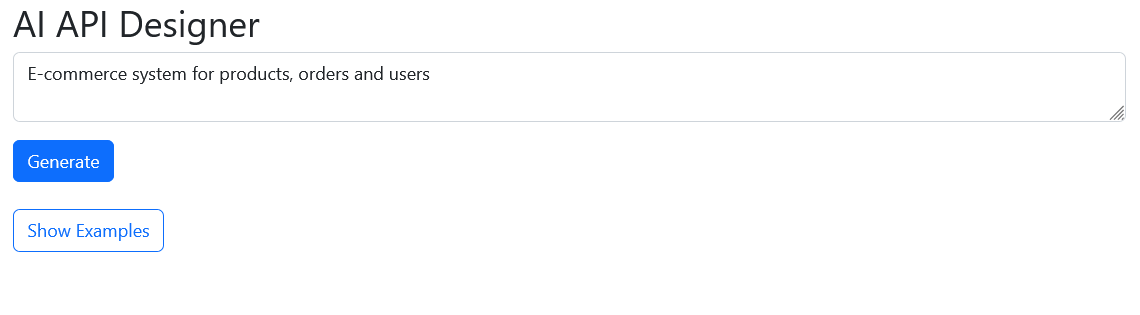
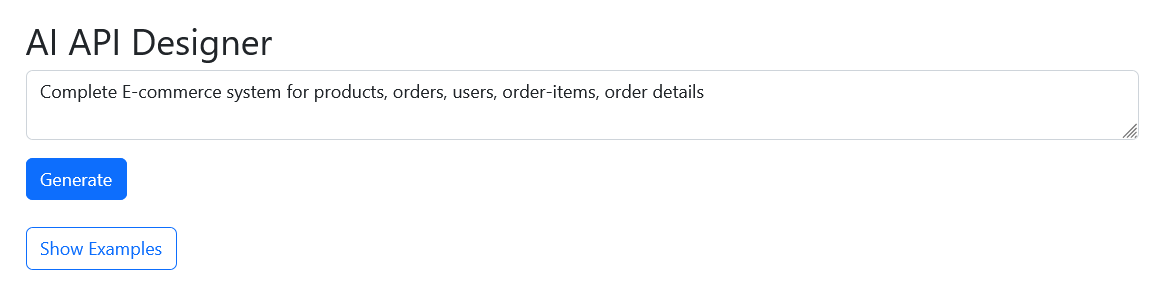
Change Code

diff --git a/api.php b/api.php
@@ -50,8 +50,8 @@
 
   Rules:
   - Keep it simple and realistic
-  - Max 10 API endpoints
-  - Max 10 tables
+  - Max 5 API endpoints
+  - Max 5 tables
   - Do not include explanations outside JSON
   - Use clear naming';
 
@@ -72,8 +72,8 @@
             "content" => $userPrompt
         ]
     ],
-    "max_tokens" => 3000,
-    "temperature" => 0.1
+    "max_tokens" => 1000,
+    "temperature" => 0.2
     
   ];
 

diff --git a/README.md b/README.md
@@ -151,15 +151,15 @@ http://localhost:1234
 
 You can test with:
 
-1. E-commerce system for products, orders and users
-2. User management system with roles and permissions
-3. System for managing events, tickets and attendees
-4. Hospital system for patients, doctors and appointments
-5. System for storing AI prompts and responses history
-6. Smart energy system for tracking devices and energy consumption
-7. Banking system with accounts and transactions
-8. Inventory management system for products and stock tracking
-9. Reservation system for booking appointments
+1. Complete E-commerce system for products, orders, users, order-items, order details
+2. Complete User management system with roles and permissions
+3. Complete System for managing events, tickets and attendees
+4. Complete Hospital system for patients, doctors and appointments
+5. Complete System for storing AI prompts and responses history
+6. Complete Smart energy system for tracking devices and energy consumption
+7. Complete Banking system with accounts and transactions
+8. Complete Inventory management system for products and stock tracking
+9. Complete Reservation system for booking appointments
 
 ---
 
@@ -188,7 +188,8 @@ Which is then converted into:
 ![Main 3](screenshots/main3.png)
 
 ### AI LM Studio Generate REST API endpoints 
-![API](screenshots/api.png)
+![API](screenshots/api_01.png)
+![API](screenshots/api_02.png)
 
 ### AI LM Studio Generate SQL 
 ![SQL](screenshots/sql.png)
